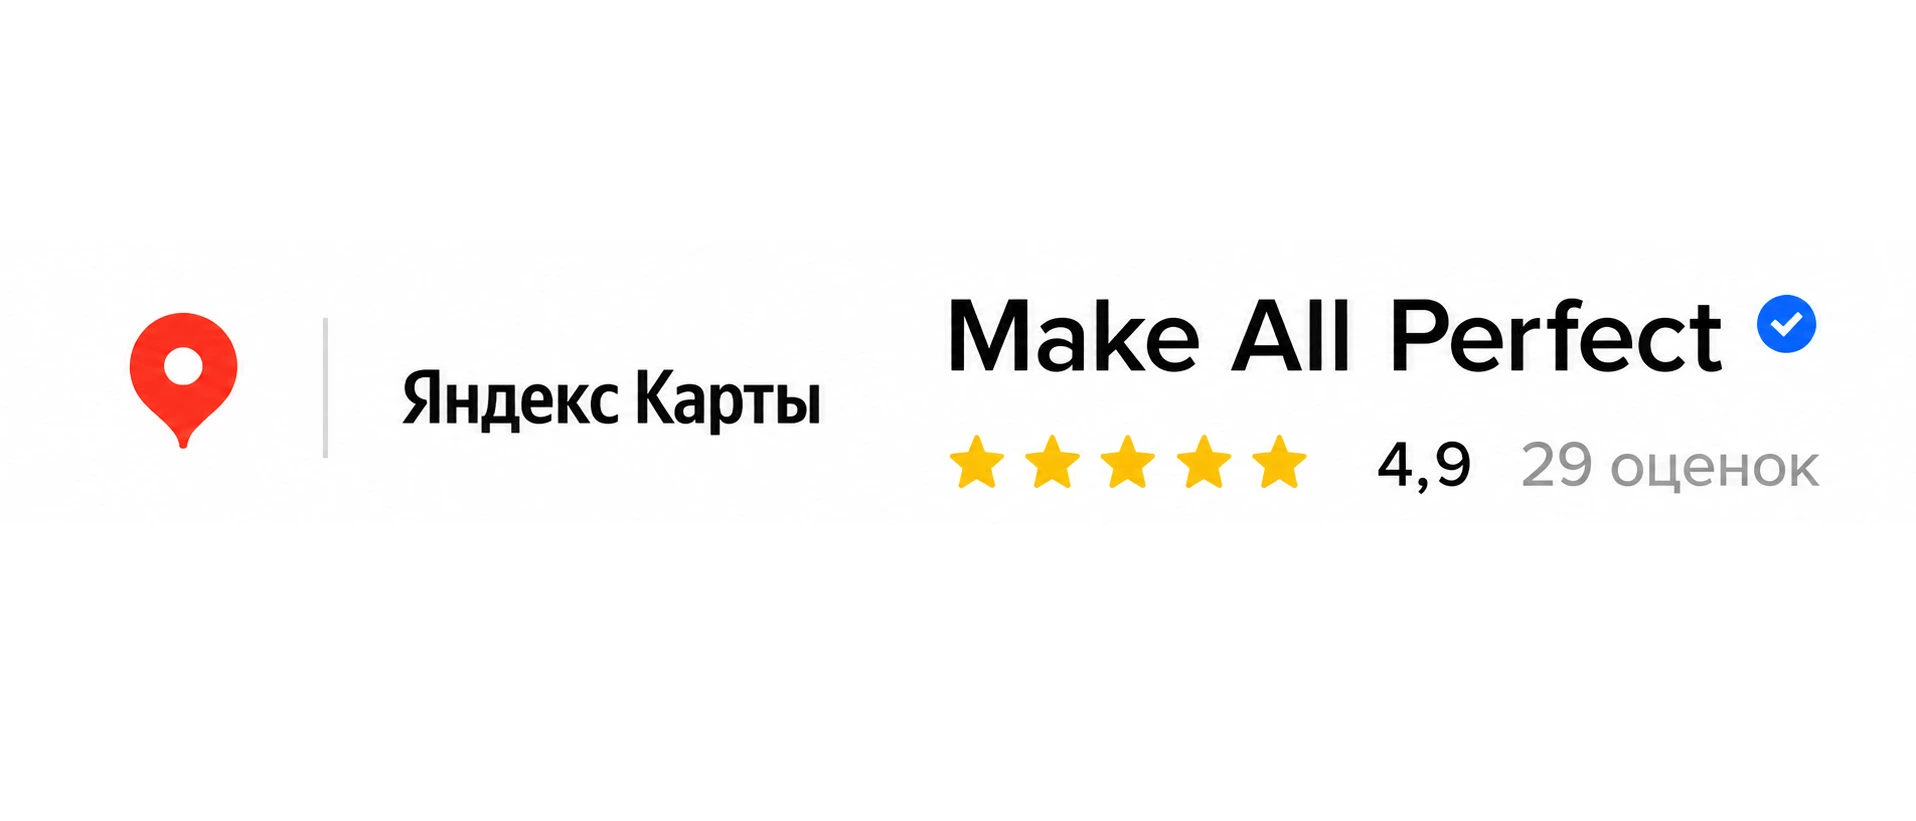
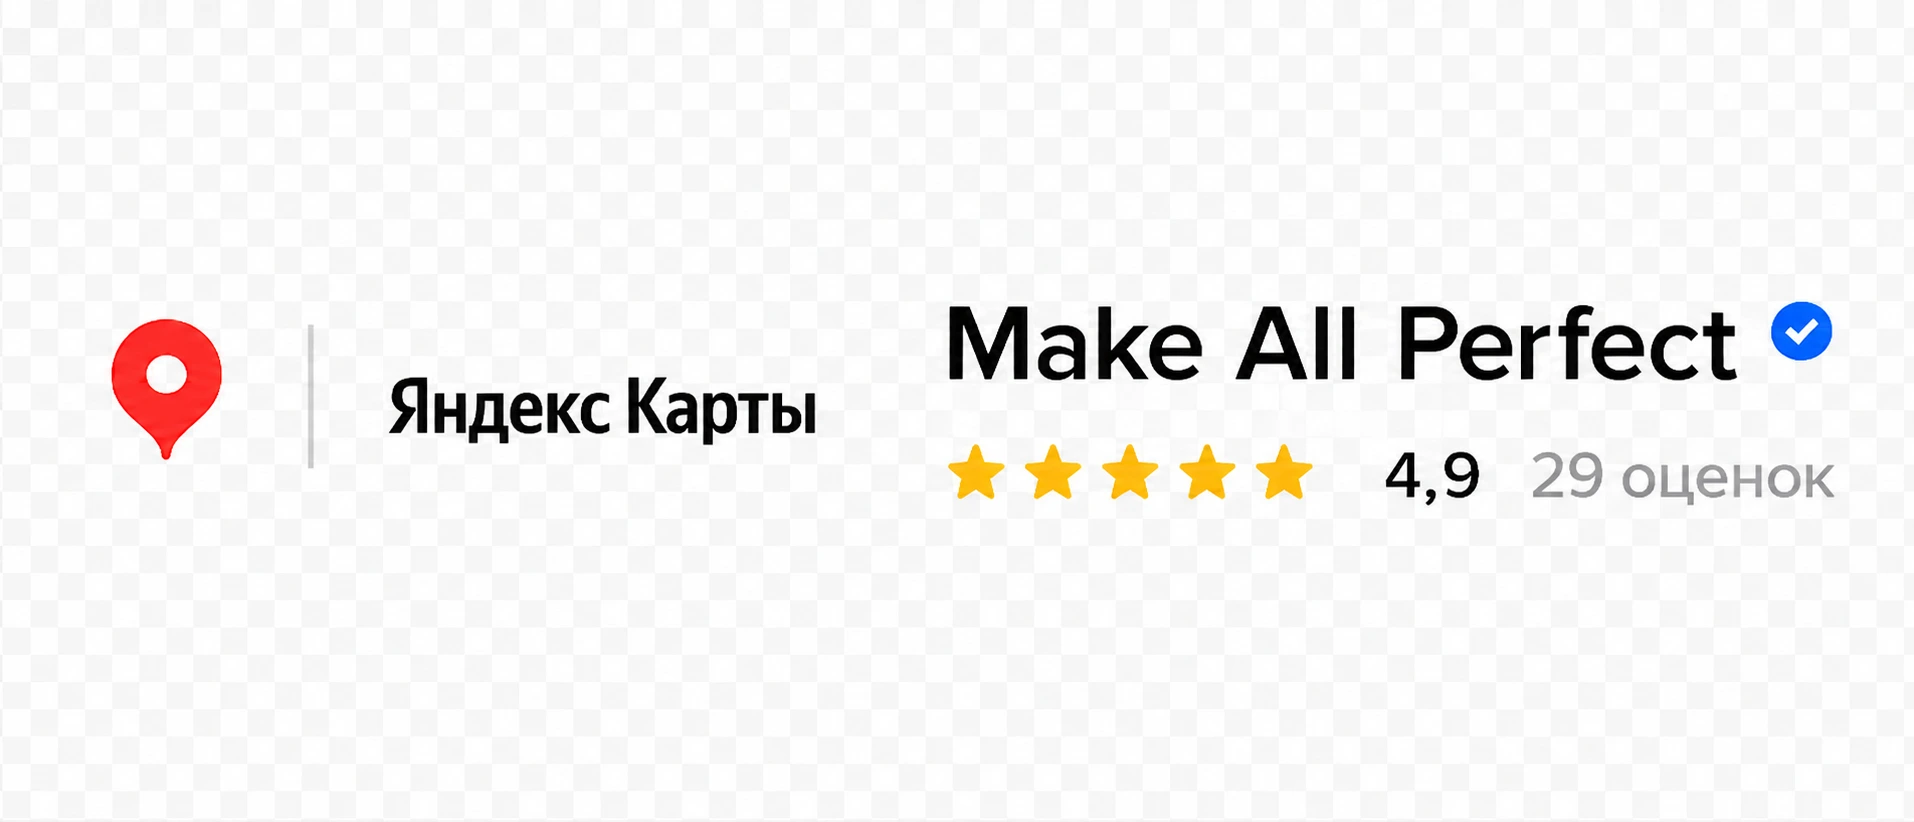
fix: replace yandex rating with new transparent badge + white bg wrapper on home/reviews pages

diff --git a/src/components/sections/HomeReviewsSection.module.css b/src/components/sections/HomeReviewsSection.module.css
@@ -406,3 +406,31 @@
   .sectionHeader h2 { font-size: 34px; }
   .reviewCard blockquote { font-size: 18px; }
 }
+
+.yandexRatingRow {
+  display: flex;
+  justify-content: center;
+  margin-top: 48px;
+  padding: 0 32px;
+}
+
+.yandexRatingLink {
+  display: inline-flex;
+  text-decoration: none;
+  border-radius: 12px;
+  background: #ffffff;
+  padding: 8px;
+  box-shadow: 0 4px 16px rgba(0, 0, 0, 0.06);
+  transition: box-shadow 180ms ease;
+}
+
+.yandexRatingLink:hover {
+  box-shadow: 0 6px 20px rgba(0, 0, 0, 0.10);
+}
+
+.yandexRatingImg {
+  width: 260px;
+  height: auto;
+  border-radius: 6px;
+  display: block;
+}

diff --git a/src/components/sections/HomeReviewsSection.tsx b/src/components/sections/HomeReviewsSection.tsx
@@ -198,6 +198,23 @@ export default function HomeReviewsSection() {
       {popupReview && (
         <ReviewPopup review={popupReview} onClose={() => setPopupReview(null)} />
       )}
+
+      <div className={styles.yandexRatingRow}>
+        <a
+          href="https://yandex.ru/maps/org/make_all_perfect/190852529964/reviews/"
+          target="_blank"
+          rel="noopener noreferrer"
+          className={styles.yandexRatingLink}
+        >
+          <img
+            src="/images/yandex-rating.webp"
+            alt="Рейтинг Make All Perfect на Яндекс Картах — 4.9"
+            loading="lazy"
+            decoding="async"
+            className={styles.yandexRatingImg}
+          />
+        </a>
+      </div>
     </section>
   );
 }

diff --git a/src/components/sections/ReviewsIndexSection.module.css b/src/components/sections/ReviewsIndexSection.module.css
@@ -551,15 +551,20 @@
 .yandexRatingLink {
   display: inline-flex;
   text-decoration: none;
-  transition: opacity 180ms ease;
+  border-radius: 12px;
+  background: #ffffff;
+  padding: 8px;
+  box-shadow: 0 4px 16px rgba(0, 0, 0, 0.06);
+  transition: box-shadow 180ms ease;
 }
 
 .yandexRatingLink:hover {
-  opacity: 0.8;
+  box-shadow: 0 6px 20px rgba(0, 0, 0, 0.10);
 }
 
 .yandexRatingImg {
   width: 260px;
   height: auto;
-  border-radius: 8px;
+  border-radius: 6px;
+  display: block;
 }